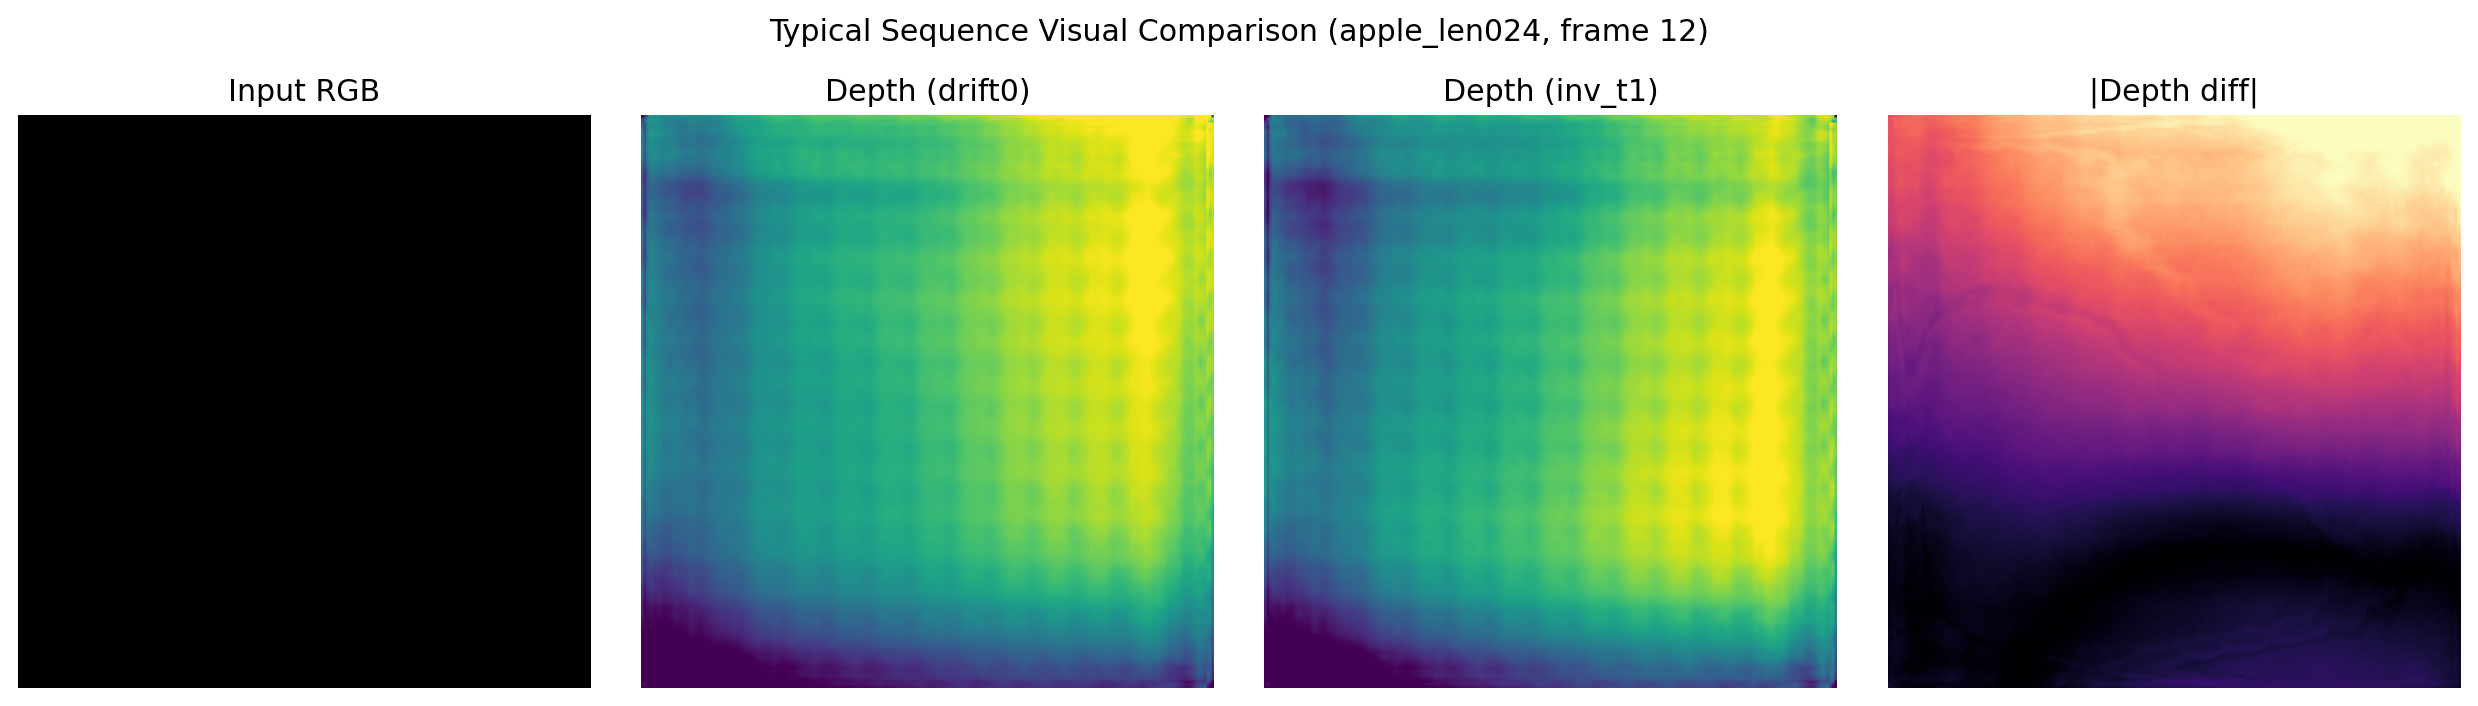
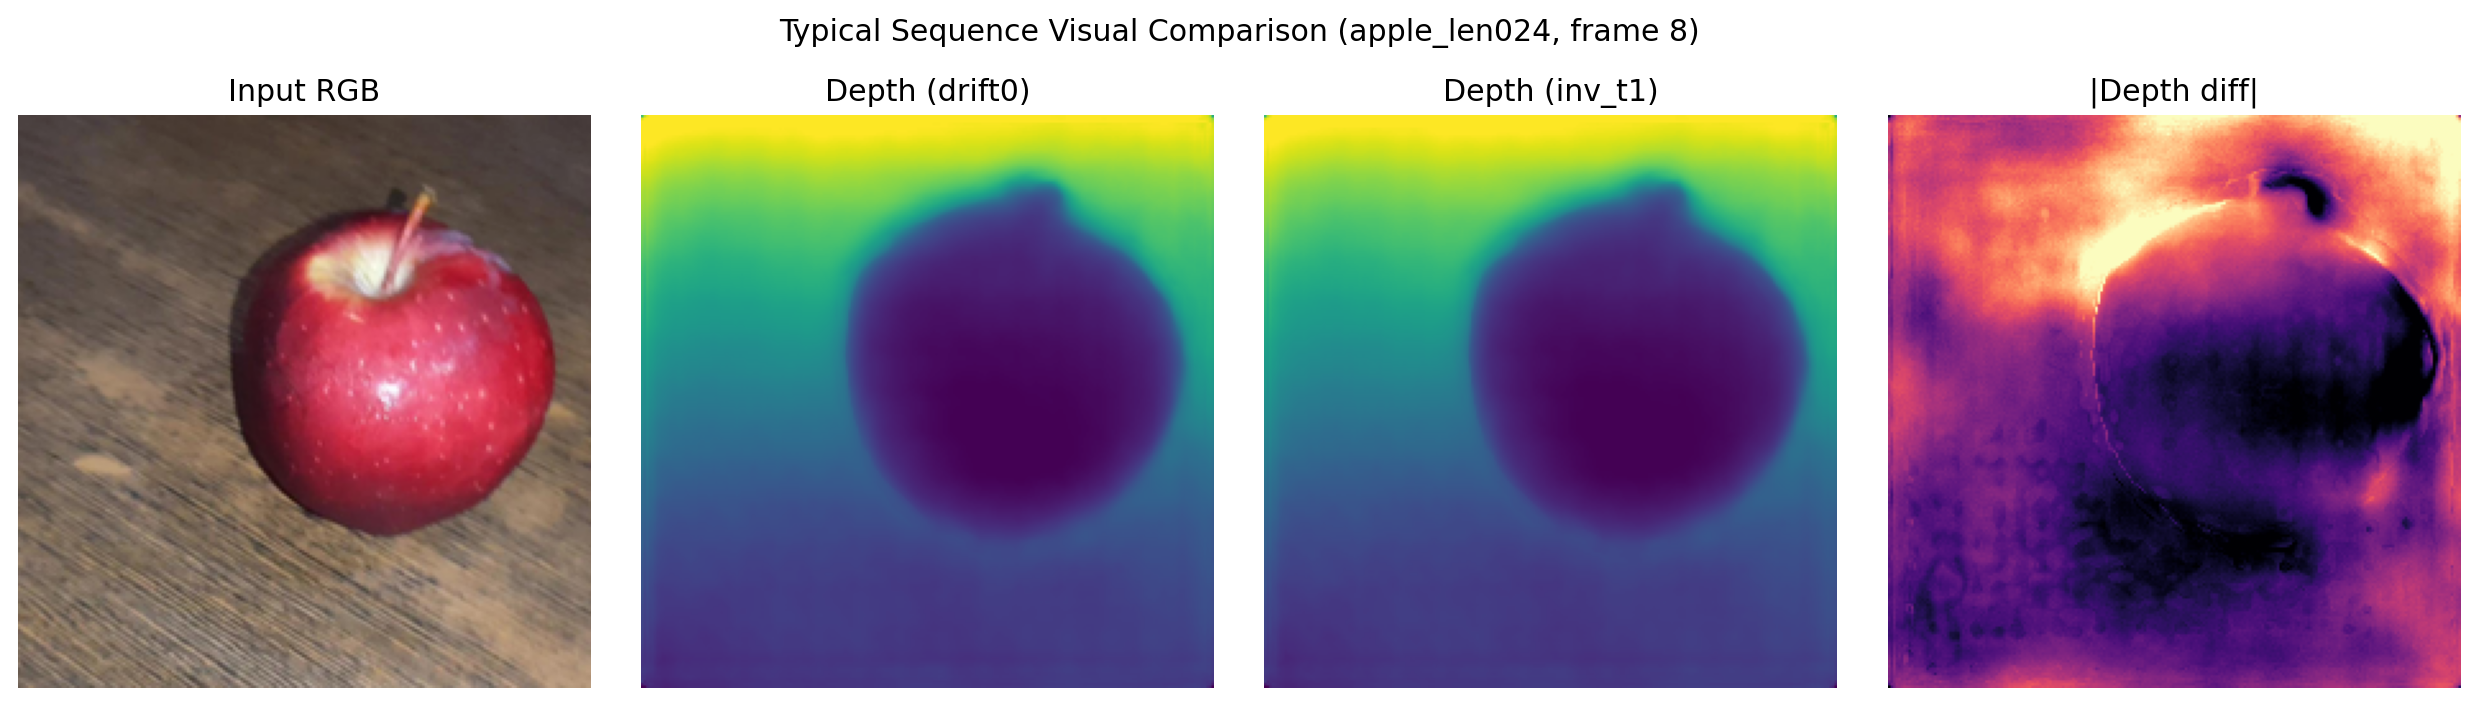
fix: use valid frame for typical visual and update docs

diff --git a/analysis/plot_safe224_paper_figures.py b/analysis/plot_safe224_paper_figures.py
@@ -112,7 +112,9 @@ def _norm_depth(depth: np.ndarray) -> np.ndarray:
 
 def plot_typical_before_after(pred_root: Path, out_path: Path) -> None:
     seq = "apple/540_79043_153212_len024"
-    frame_id = "000012"
+    # 000012 in this sequence is fully black in both exported and raw frames;
+    # choose a valid visible frame for paper visualization.
+    frame_id = "000008"
 
     color_path = pred_root / "ttt3r_momentum_inv_t1" / seq / "color" / f"{frame_id}.png"
     # fallback to raw sequence image if exported color frame is all black
@@ -148,7 +150,7 @@ def plot_typical_before_after(pred_root: Path, out_path: Path) -> None:
     axs[3].set_title("|Depth diff|")
     for ax in axs:
         ax.axis("off")
-    fig.suptitle("Typical Sequence Visual Comparison (apple_len024, frame 12)", y=1.02)
+    fig.suptitle(f"Typical Sequence Visual Comparison (apple_len024, frame {int(frame_id)})", y=1.02)
     plt.tight_layout()
     plt.savefig(out_path, bbox_inches="tight")
     plt.close()

diff --git a/docs/SAFE224_VISUAL_EVIDENCE.md b/docs/SAFE224_VISUAL_EVIDENCE.md
@@ -28,7 +28,7 @@
 - `docs/figures/safe224/fig_typical_before_after_depth.png`
 
 含义：
-- 示例序列：`apple/540_79043_153212_len024`，第 `12` 帧。
+- 示例序列：`apple/540_79043_153212_len024`，第 `8` 帧。
 - 展示内容：`Input RGB`、`Depth(drift0)`、`Depth(inv_t1)`、`|Depth diff|`。
 - 用于直观展示 brake 配置变化带来的深度图差异。
 
